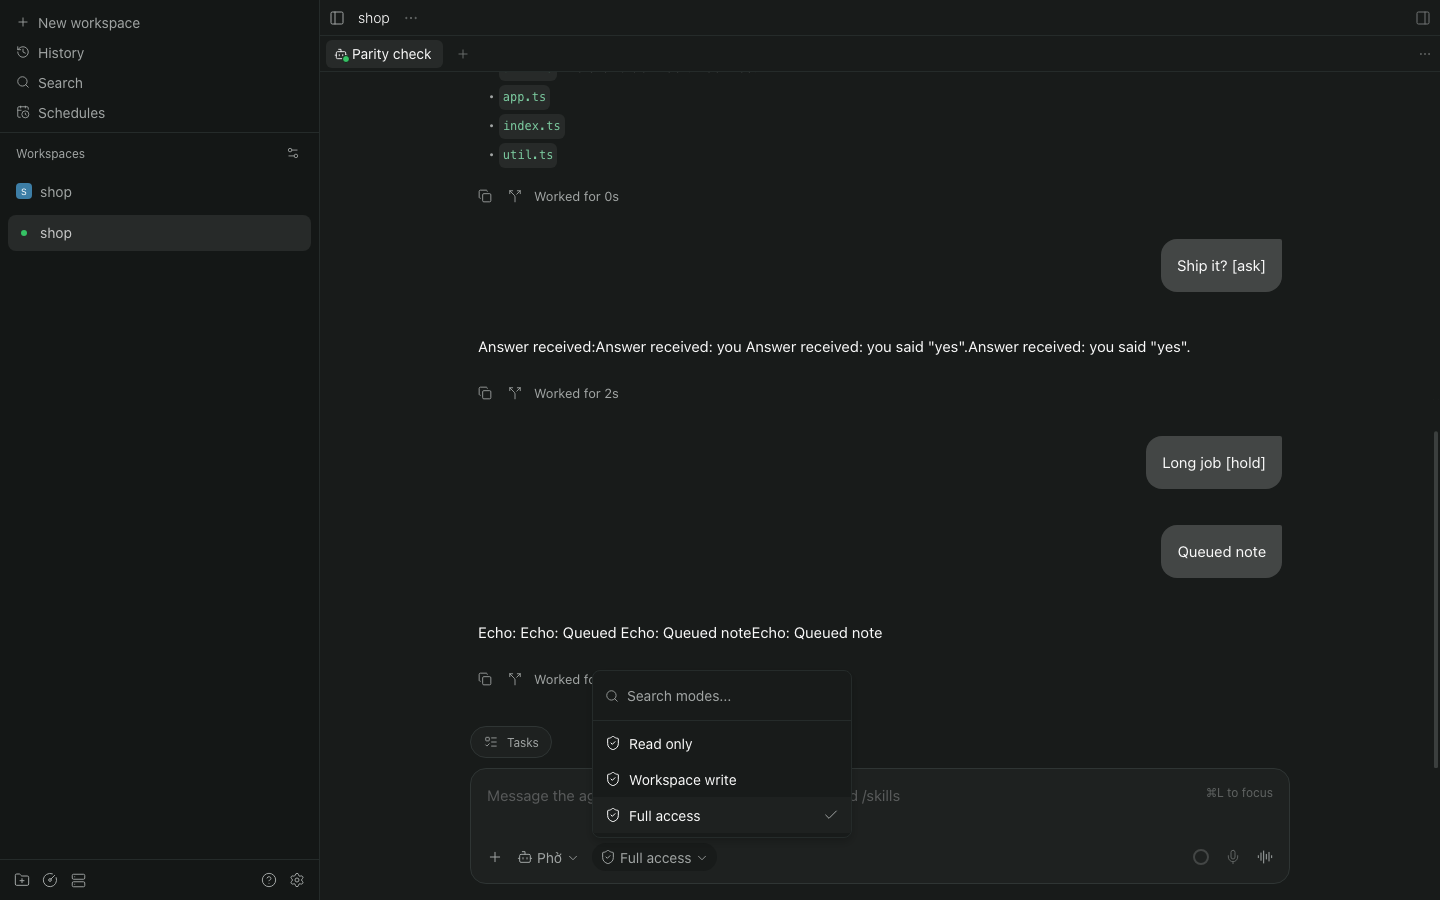
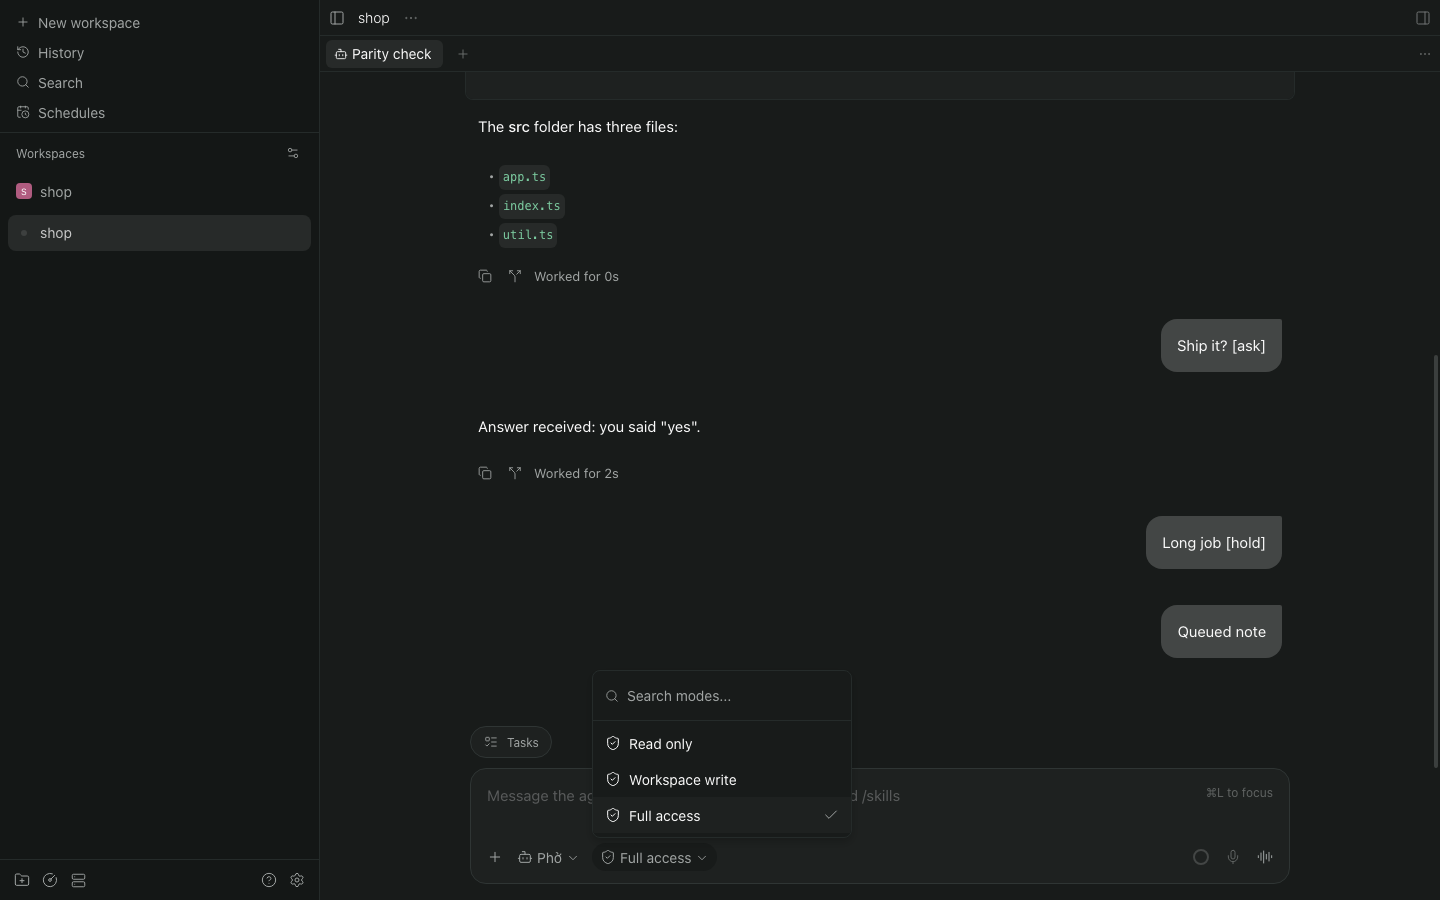
fix(paseo): stop re-streaming whole assistant messages (t-d858)
The bridge compared alpd's envelope epoch with its own timeline epoch,
which never match, so it reset the delta state on every item and sent
the full message text again each time. paseo-web then showed text such
as "Answer received:Answer received: you".

It now remembers the last alpd epoch it saw for each root and resets
only when that epoch changes. The epoch is forgotten on attach,
reattach, and when the root drops out of session.list.

Tests: a paseo-web streaming test and a createAgents unit test of the
epoch reset branch. Regenerated the paseo-web chat screenshots.

diff --git a/integrations/paseo/server/paseo/agents.ts b/integrations/paseo/server/paseo/agents.ts
@@ -111,6 +111,8 @@ export function createAgents({ clientFactory, home, broadcast, directory, log = 
   const roots = new Map<string, SessionSummary>();
   const timelines = new InMemoryAgentTimelineStore();
   const deltas = new Map<string, TimelineDeltas>();
+  /** The alpd epoch of the last event seen for each root, to notice a daemon restart. */
+  const epochs = new Map<string, string>();
   /** Roots whose history is being replayed into their timeline; nothing of it is broadcast. */
   const replaying = new Set<string>();
   const attaching = new Map<string, Promise<void>>();
@@ -227,7 +229,7 @@ export function createAgents({ clientFactory, home, broadcast, directory, log = 
       // A live root's events come to the bridge, so its timeline stays current.
       if ((session.status === 'idle' || session.status === 'running') && !timelines.has(session.id)) void ensureTimeline(session.id).catch(() => {});
     }
-    for (const id of [...roots.keys()]) if (!seen.has(id)) { roots.delete(id); broadcast({ type: 'agent_update', payload: { kind: 'remove', agentId: id } }); directory.changed(); }
+    for (const id of [...roots.keys()]) if (!seen.has(id)) { roots.delete(id); epochs.delete(id); broadcast({ type: 'agent_update', payload: { kind: 'remove', agentId: id } }); directory.changed(); }
     // Questions come as events from attached trees; the list catches any other and any missed end.
     const { questions: waiting } = await alp.request<{ questions: UserQuestion[] }>('question.list', {});
     for (const question of waiting) asked(question);
@@ -318,8 +320,11 @@ export function createAgents({ clientFactory, home, broadcast, directory, log = 
     const { event } = envelope;
     switch (event.type) {
       case 'item': {
-        // Daemon restarts change the epoch: reset the delta state so history is not de-duplicated against stale snapshots.
-        if (envelope.epoch && timelines.has(root) && envelope.epoch !== timelines.getEpoch(root)) deltas.set(root, new TimelineDeltas());
+        // Daemon restarts change alpd's epoch: reset the delta state so history is not de-duplicated against stale
+        // snapshots. Compare with the last alpd epoch seen for this root, never the bridge's own timeline epoch.
+        const seenEpoch = epochs.get(root);
+        if (envelope.epoch) epochs.set(root, envelope.epoch);
+        if (envelope.epoch && seenEpoch && envelope.epoch !== seenEpoch) deltas.set(root, new TimelineDeltas());
         let maker = deltas.get(root);
         if (!maker) deltas.set(root, maker = new TimelineDeltas());
         append(root, maker.next(event.item), envelope.ts);
@@ -358,6 +363,7 @@ export function createAgents({ clientFactory, home, broadcast, directory, log = 
       pending = (async () => {
         timelines.initialize(root);
         deltas.set(root, new TimelineDeltas());
+        epochs.delete(root);
         replaying.add(root);
         try { await alp!.request('session.attach', { sessionId: root, replay: true }); }
         catch (error) { timelines.delete(root); throw error; }
@@ -377,6 +383,7 @@ export function createAgents({ clientFactory, home, broadcast, directory, log = 
     timelines.delete(root);
     deltas.set(root, new TimelineDeltas());
     attaching.delete(root);
+    epochs.delete(root);
     replaying.delete(root);
     turns.delete(root);
     for (const child of children.values()) {

diff --git a/integrations/paseo/tests/agents.test.js b/integrations/paseo/tests/agents.test.js
@@ -95,3 +95,38 @@ test('a connection whose first refresh fails is dropped as half-open and replace
     assert.equal(connections[2].calls.filter(method => method === 'session.list').length, 1, 'the replacement refreshed exactly once');
   } finally { agents.close(); }
 });
+
+test('a changed alpd epoch resets the delta state for a root; within one epoch only suffixes stream', async () => {
+  const session = { id: 'root-1', status: 'idle', projectRoot: '/', agent: 'main', title: 'root', runtime: 'claude', model: 'opus', mode: 'default', workflow: { mode: 'custom' }, createdAt: '2026-01-01T00:00:00.000Z', updatedAt: '2026-01-01T00:00:00.000Z' };
+  let emit, connection;
+  const clientFactory = async onEvent => {
+    emit = onEvent;
+    return connection = fakeConnection({
+      onRequest: method => {
+        if (method === 'session.list') return { sessions: [session] };
+        if (method === 'question.list') return { questions: [] };
+        return {};
+      },
+    });
+  };
+  const frames = [];
+  const agents = createAgents({ clientFactory, broadcast: frame => frames.push(frame), directory });
+  const texts = () => frames
+    .filter(frame => frame.type === 'agent_stream' && frame.payload.agentId === session.id && frame.payload.event.type === 'timeline' && frame.payload.event.item.type === 'assistant_message')
+    .map(frame => frame.payload.event.item.text);
+  const item = (epoch, text) => emit({ sessionId: session.id, epoch, ts: new Date().toISOString(), event: { type: 'item', item: { id: 'msg-1', kind: 'assistant_message', text } } });
+  try {
+    await agents.start();
+    // The refresh attaches the live root; once the attach has answered, its timeline exists and is not replaying.
+    await until(() => connection.calls.includes('session.attach'), 'the live root to attach');
+    await sleep(10);
+    item('epoch-A', 'Answer received:');
+    item('epoch-A', 'Answer received: you');
+    assert.deepEqual(texts(), ['Answer received:', ' you'], 'within one epoch only the new suffix streams');
+    // A daemon restart: the same item id arrives under a new epoch and must be appended whole.
+    item('epoch-B', 'Answer received: you');
+    assert.deepEqual(texts(), ['Answer received:', ' you', 'Answer received: you'], 'a new epoch re-appends the full snapshot');
+    item('epoch-B', 'Answer received: you said hi');
+    assert.deepEqual(texts().slice(3), [' said hi'], 'the new epoch then streams suffixes again');
+  } finally { agents.close(); }
+});

diff --git a/integrations/paseo/tests/paseo-web.test.js b/integrations/paseo/tests/paseo-web.test.js
@@ -228,6 +228,27 @@ test('the app starts an ALP session as an agent, sees it stream, reads its timel
   assert.equal((await history({ page: { limit: 1, cursor: '1' } })).entries[0].agent.id, agentId);
 });
 
+test('streamed assistant text reaches the app once: each delta appended, never the whole message again (t-d858)', async t => {
+  const { connected, ask, root, agents } = await setup(t);
+  const client = await connected();
+  const created = await ask(client, { type: 'create_agent_request', requestId: 'a1', config: { provider: 'alp', cwd: root, title: 'Stream' }, initialPrompt: 'Stream', clientMessageId: 'm1', labels: {} });
+  const agentId = created.payload.agentId;
+  await until(() => agents[0]?.started.length === 1, 'the first turn');
+  await client.next(frame => frame.message?.type === 'agent_stream' && frame.message.payload.event.type === 'turn_started');
+  const agent = agents[0];
+  const text = 'Answer received: you said hello.';
+  for (const delta of ['Answer', ' received:', ' you said', ' hello.']) agent.notification('item/agentMessage/delta', { threadId: agent.threadId, turnId: agent.turnId, itemId: 'msg-1', delta });
+  agent.notification('item/completed', { threadId: agent.threadId, turnId: agent.turnId, item: { type: 'agentMessage', id: 'msg-1', text } });
+  agent.notification('turn/completed', { threadId: agent.threadId, turn: { id: agent.turnId, status: 'completed' } });
+  await client.next(frame => frame.message?.type === 'agent_stream' && frame.message.payload.event.type === 'turn_completed');
+  const streamed = client.frames
+    .filter(frame => frame.message?.type === 'agent_stream' && frame.message.payload.agentId === agentId && frame.message.payload.event.type === 'timeline' && frame.message.payload.event.item.type === 'assistant_message')
+    .map(frame => frame.message.payload.event.item.text);
+  assert.equal(streamed.join(''), text);
+  const timeline = (await ask(client, { type: 'fetch_agent_timeline_request', requestId: 'tl1', agentId })).payload;
+  assert.deepEqual(timeline.entries.filter(entry => entry.item.type === 'assistant_message').map(entry => entry.item.text), [text]);
+});
+
 test('what an agent asks the user is a question card on its root, answered from the app or dismissed', async t => {
   const { connected, ask, session, root, agents } = await setup(t);
   const client = await connected();
